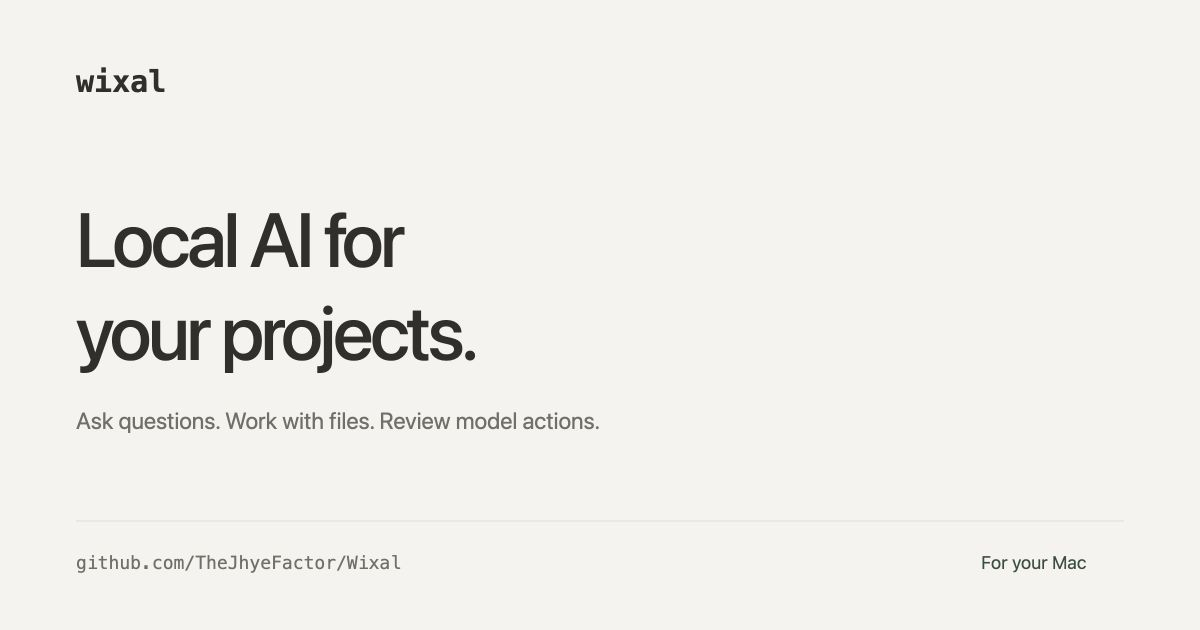
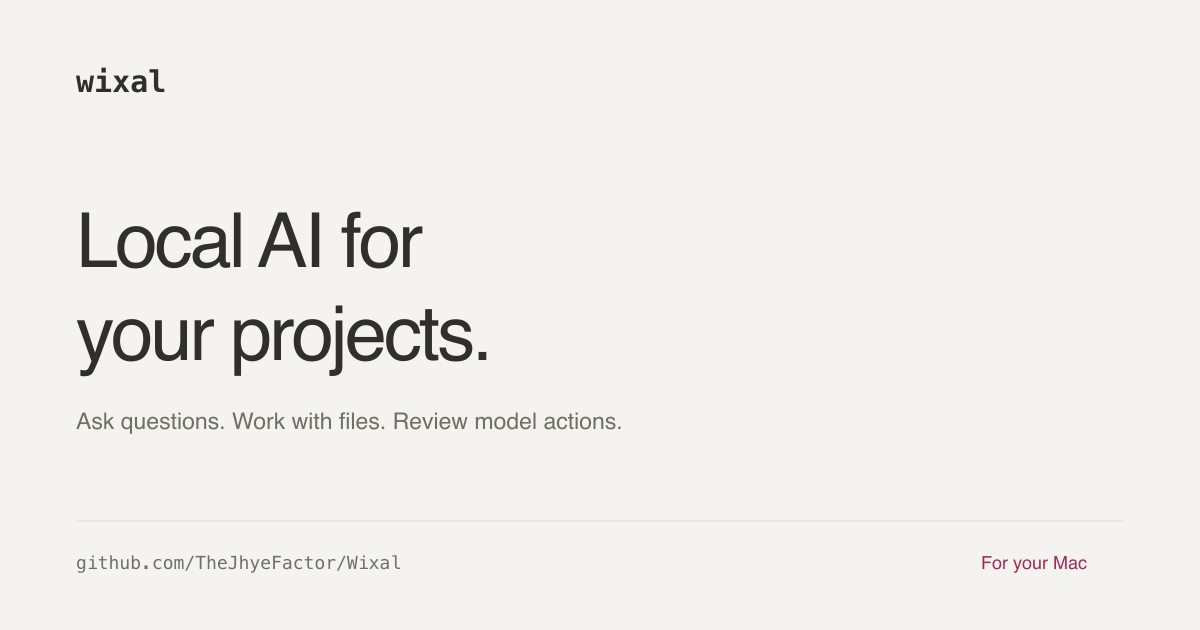
Restore Wixal pink website accents for the native alpha

diff --git a/website/src/styles.css b/website/src/styles.css
@@ -1,5 +1,5 @@
-:root{color-scheme:light;--bg:#f4f3ef;--panel:#faf9f6;--ink:#302f2b;--muted:#706f67;--line:#deddd5;--accent:#374e40;--on-accent:#fff;--shadow:0 22px 60px #302f2b10;font-family:-apple-system,BlinkMacSystemFont,"Segoe UI",sans-serif;font-size:16px;line-height:1.65}
-:root[data-theme=dark]{color-scheme:dark;--bg:#191b19;--panel:#202320;--ink:#e5e6df;--muted:#b0b5aa;--line:#363b34;--accent:#b9ccba;--on-accent:#19221b;--shadow:0 22px 60px #0003}
+:root{color-scheme:light;--bg:#f4f3ef;--panel:#faf9f6;--ink:#302f2b;--muted:#706f67;--line:#deddd5;--accent:#a12b59;--on-accent:#fff;--shadow:0 22px 60px #302f2b10;font-family:-apple-system,BlinkMacSystemFont,"Segoe UI",sans-serif;font-size:16px;line-height:1.65}
+:root[data-theme=dark]{color-scheme:dark;--bg:#19171d;--panel:#232027;--ink:#eee6ef;--muted:#b8adbb;--line:#3b303e;--accent:#f5a6c7;--on-accent:#281622;--shadow:0 22px 60px #0003}
 *{box-sizing:border-box}body{margin:0;background:var(--bg);color:var(--ink)}a{color:inherit;text-underline-offset:4px}button{font:inherit;color:inherit;cursor:pointer}button,a{-webkit-tap-highlight-color:transparent}button:focus-visible,a:focus-visible{outline:2px solid var(--accent);outline-offset:5px}button{background:none;border:0}h1,h2,h3,p{margin:0}h1,h2,h3{font-weight:500;line-height:1.15;letter-spacing:-.035em}h1{font-size:clamp(42px,6vw,76px)}h2{font-size:clamp(26px,3vw,36px)}h3{font-size:20px;letter-spacing:-.015em}p{color:var(--muted)}p+p{margin-top:18px}svg{width:20px;height:20px;flex-shrink:0}img{display:block;max-width:100%;height:auto}[hidden]{display:none!important}.container{width:min(100% - 80px,1040px);margin-inline:auto}.header{display:flex;align-items:center;justify-content:space-between;gap:24px;padding-block:30px}.brand{font:600 21px ui-monospace,SFMono-Regular,Menlo,monospace;letter-spacing:.02em;text-decoration:none}.header nav{display:flex;gap:28px;align-items:center;font-size:14px}.header nav>a:not(.button){text-decoration:none}.header nav>a:hover{text-decoration:underline}.button{display:inline-flex;align-items:center;justify-content:center;padding:12px 21px;border:1px solid var(--accent);background:var(--accent);color:var(--on-accent);border-radius:8px;text-decoration:none;font-size:14px;font-weight:500;transition:opacity .18s,transform .18s}.button:hover{opacity:.88;transform:translateY(-1px)}.button.small{padding:8px 16px}.button.secondary{background:transparent;color:var(--ink);border-color:var(--line)}.text-link{display:inline-flex;gap:12px;align-items:center;text-decoration:none;font-size:14px}.text-link:hover{text-decoration:underline}.hero{padding-top:77px}.eyebrow{font-size:12px;letter-spacing:.06em;margin-bottom:18px;color:var(--muted)}.hero-subtitle{font-size:19px;line-height:1.65;max-width:510px;margin-top:25px}.hero-actions{display:flex;align-items:center;flex-wrap:wrap;gap:26px;margin-top:28px}.release-meta{font-size:12px;margin-top:18px}.workspace-preview{margin:53px 0 0}.workspace-preview>button{display:block;padding:0;width:100%;border:1px solid var(--line);border-radius:12px;overflow:hidden;box-shadow:var(--shadow)}.workspace-preview img{width:100%}.workspace-preview figcaption{display:flex;justify-content:space-between;gap:15px;align-items:center;font-size:12px;color:var(--muted);padding-top:14px}.workspace-preview figcaption button{font-size:12px;padding:0}.section{padding-block:82px;border-bottom:1px solid var(--line)}.section>h2{margin-bottom:34px}.capabilities{margin-top:40px}.capability{display:grid;grid-template-columns:1fr 1.7fr;gap:55px;padding:28px 0;border-top:1px solid var(--line);scroll-margin-top:35px}.capability p{max-width:620px}.capability .text-link{margin-top:13px}.native-section{display:grid;grid-template-columns:1fr 1.7fr;gap:55px}.native-section .text-link{margin-top:20px}.footer{display:flex;align-items:center;justify-content:space-between;gap:24px;padding-block:38px}.footer nav{display:flex;gap:18px;flex-wrap:wrap;font-size:11px}.footer nav a,.privacy-settings{text-decoration:none;color:var(--muted);font-size:11px;padding:0}.footer nav a:hover,.privacy-settings:hover{text-decoration:underline}.appearance{display:flex;gap:2px;border:1px solid var(--line);border-radius:7px;padding:3px}.appearance button{padding:1px 7px;line-height:1.5;font-size:17px;border-radius:4px}.appearance button[aria-pressed=true]{background:var(--line)}.page-hero{padding-block:70px 10px}.page-hero h1{font-size:clamp(38px,5vw,60px);max-width:780px}.page-hero+.section{border-top:0}.resource-list{padding-top:45px}.resource-item{display:grid;grid-template-columns:1fr 1.5fr auto;gap:24px;align-items:center;padding:23px 0;border-top:1px solid var(--line);text-decoration:none}.resource-item h2{font-size:19px;letter-spacing:-.015em}.resource-item p{font-size:14px}.resource-item:hover h2{text-decoration:underline;text-underline-offset:4px}.download-layout{display:grid;grid-template-columns:1fr 1fr;gap:70px}.download-panel h2{margin-bottom:20px}.download-panel>p:not(.eyebrow){margin-top:18px}.download-panel .text-link{margin-top:25px}.steps h2{font-size:26px}.steps ol{padding-left:21px;color:var(--muted);margin-block:25px}.steps li{padding:6px 0 6px 10px}.note{font-size:13px;line-height:1.75}.steps .text-link{margin-top:20px}.privacy-copy{max-width:740px}.privacy-copy h2{font-size:25px;margin-block:38px 16px}.privacy-copy h2:first-child{margin-top:0}.prompts>h2{margin-bottom:18px}.prompts ul{color:var(--muted);padding-left:20px}.prompts li{margin-top:12px}.site-totals{display:flex;gap:65px;margin-block:35px}.site-totals>div{display:flex;flex-direction:column}.site-totals strong{font-size:32px;font-weight:500}.site-totals span{font-size:14px}.site-totals small{font-size:12px;color:var(--muted)}.stats-grid{margin-block:25px}.stats-table-wrap{overflow-x:auto}.stats-table{width:100%;border-collapse:collapse;margin-block:30px}.stats-table th,.stats-table td{text-align:right;padding:14px;border-bottom:1px solid var(--line);font-size:14px}.stats-table th:first-child,.stats-table td:first-child{text-align:left}.analytics-choice{position:fixed;bottom:20px;right:20px;max-width:420px;width:calc(100% - 40px);padding:22px;background:var(--panel);border:1px solid var(--line);border-radius:12px;box-shadow:var(--shadow);z-index:10}.analytics-choice p{font-size:13px}.analytics-choice>div{display:flex;flex-wrap:wrap;gap:16px;margin-top:16px}.analytics-choice button{font-size:12px;padding:7px 13px;border:1px solid var(--line);border-radius:6px}.analytics-choice [data-analytics-allow]{background:var(--accent);color:var(--on-accent);border-color:var(--accent)}.skip-link{position:fixed;top:-100px;left:8px;z-index:20;background:var(--panel);padding:10px}.skip-link:focus{top:8px}.preview-dialog{width:min(1400px,95vw);max-height:95vh;padding:20px;border:1px solid var(--line);border-radius:12px;background:var(--panel);color:var(--ink)}.preview-dialog::backdrop{background:#000a}.preview-toolbar{display:flex;justify-content:space-between;gap:20px;align-items:center;margin-bottom:15px;font-size:13px}.preview-image{overflow:auto}.preview-image img{width:100%}.preview-description{margin-top:12px;font-size:12px}.error-page{padding-block:100px;min-height:65vh}.error-page p{margin-block:25px}
 @media(max-width:700px){.container{width:calc(100% - 40px)}.header{padding-block:22px}.header nav{gap:16px;font-size:12px}.header .button{font-size:12px;padding:7px 11px}.hero{padding-top:45px}.hero-subtitle{font-size:17px}.hero-actions{gap:22px}.workspace-preview{margin-top:37px}.workspace-preview figcaption{font-size:10px;align-items:flex-start}.workspace-preview figcaption button{font-size:10px;white-space:nowrap}.section{padding-block:48px}.capability,.native-section,.download-layout{grid-template-columns:1fr;gap:17px}.capability{padding-block:24px}.capabilities{margin-top:28px}.download-layout{gap:45px}.page-hero{padding-top:45px}.resource-item{grid-template-columns:1fr auto;gap:6px 18px}.resource-item p{grid-column:1}.resource-item>span{grid-column:2;grid-row:1/3}.footer{align-items:flex-start;flex-wrap:wrap;gap:22px}.footer nav{order:3;width:100%;gap:14px 22px}.site-totals{gap:28px;flex-wrap:wrap}.release-meta{font-size:10px}.privacy-copy{width:calc(100% - 40px)}}
 @media(prefers-reduced-motion:no-preference){.hero,.page-hero{animation:appear .45s ease-out}@keyframes appear{from{opacity:0;transform:translateY(8px)}to{opacity:1;transform:none}}} @media(prefers-reduced-motion:reduce){*,*::before,*::after{animation:none!important;transition:none!important;scroll-behavior:auto!important}}

diff --git a/website/README.md b/website/README.md
@@ -1,6 +1,6 @@
 # Wixal website
 
-A restrained static website that follows the native workspace’s Paper appearance: warm neutral surfaces, quiet dividers, the monospace Wixal wordmark and one actual workspace screenshot. Dark appearance is available in the footer.
+A restrained static website that follows the native workspace’s Paper appearance: warm neutral surfaces, quiet dividers, the monospace Wixal wordmark and pink Wixal accents and one actual workspace screenshot. Dark appearance is available in the footer.
 
 Eight pages cover Home, Workspace, Tools, Models, Guides, Download, Privacy and Download stats. Existing routes and product section anchors remain available. The download is the current **native alpha**, with one ZIP asset and explicit signing/alpha limitations. The build reads the version from `native/engine/wixal/__init__.py`; publish matching GitHub assets before the Pages deployment completes.
 
